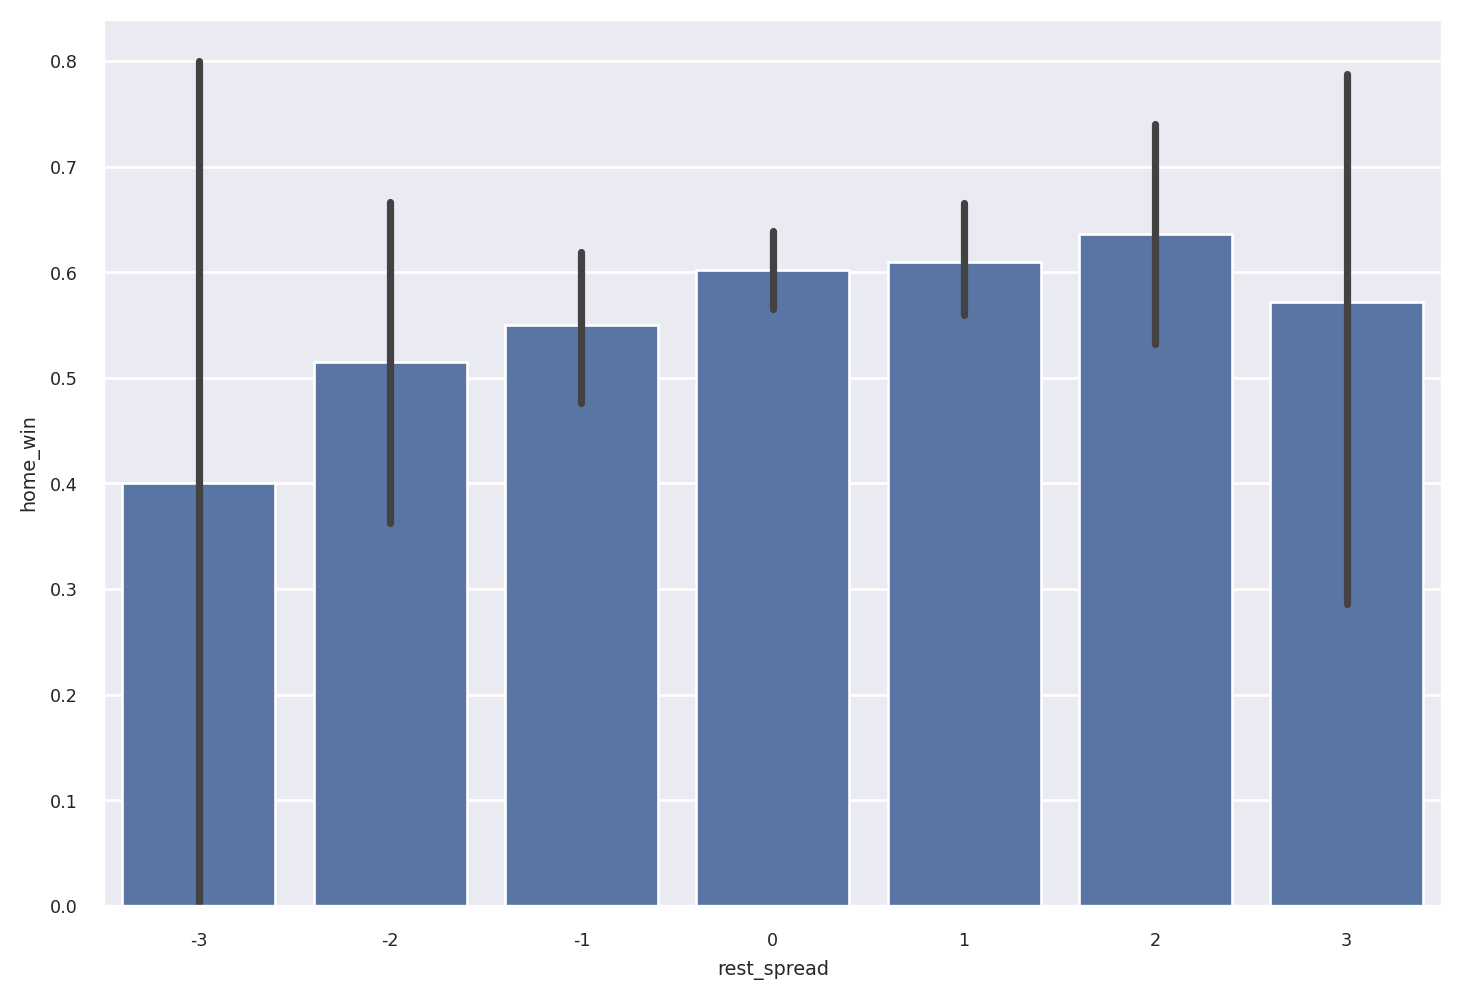
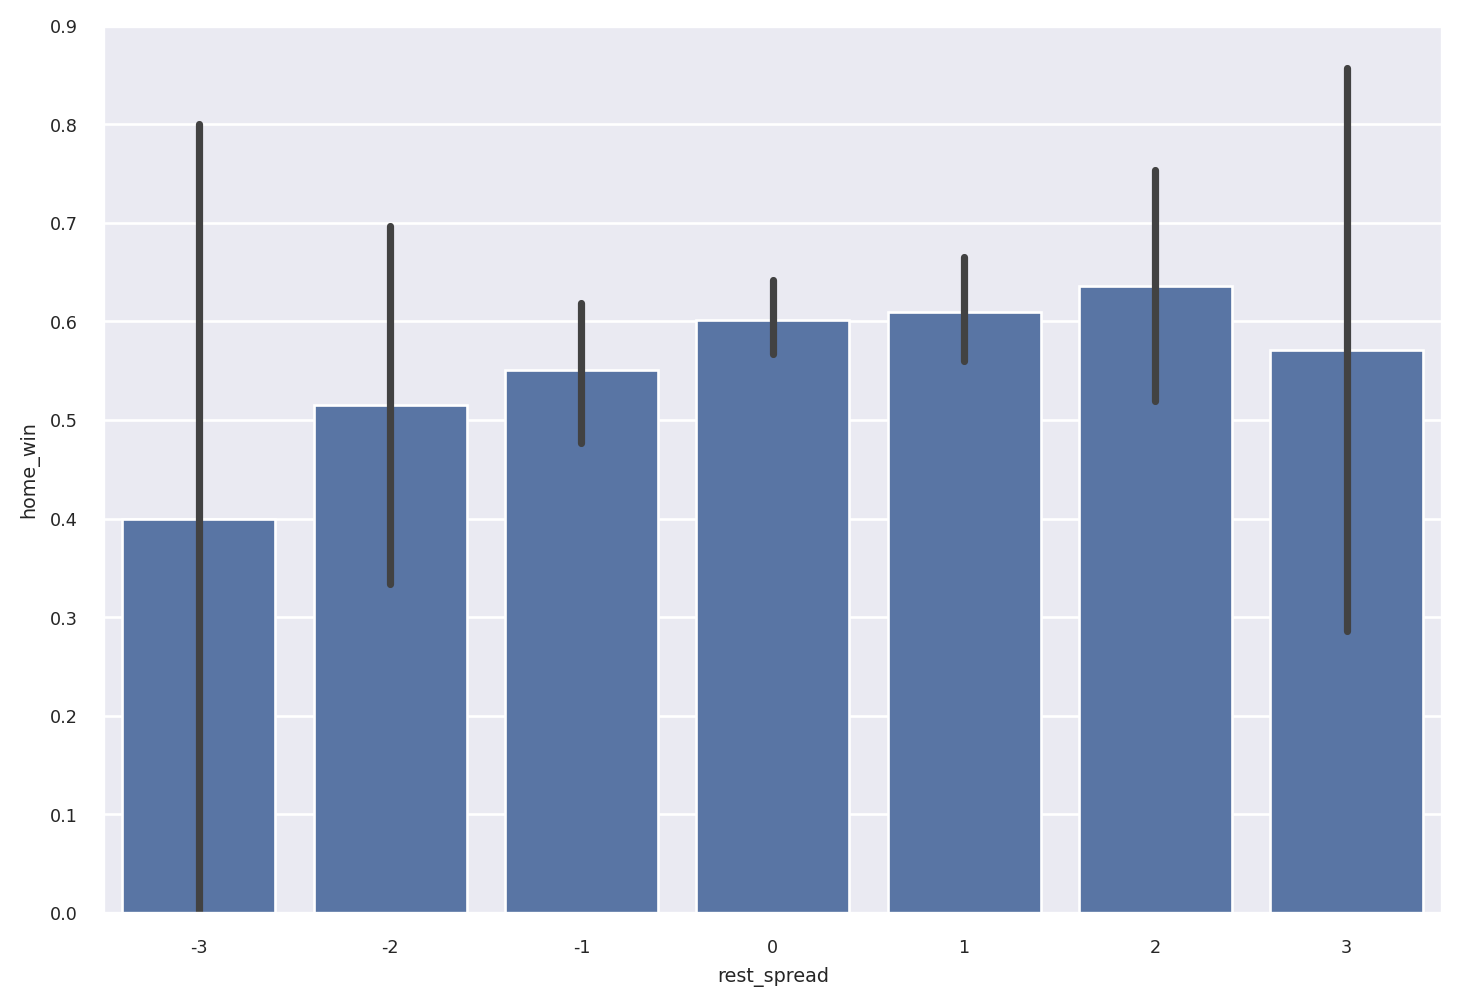
Built site for gh-pages

diff --git a/performance.html b/performance.html
@@ -741,8 +741,8 @@ Tip
 <span id="cb7-21"><a href="#cb7-21" aria-hidden="true" tabindex="-1"></a>    .collect()</span>
 <span id="cb7-22"><a href="#cb7-22" aria-hidden="true" tabindex="-1"></a>)</span></code><button title="Copy to Clipboard" class="code-copy-button"><i class="bi"></i></button></pre></div>
 <div class="cell-output cell-output-stdout">
-<pre><code>CPU times: user 197 ms, sys: 42.5 ms, total: 240 ms
-Wall time: 59.4 ms</code></pre>
+<pre><code>CPU times: user 200 ms, sys: 38.6 ms, total: 238 ms
+Wall time: 66.1 ms</code></pre>
 </div>
 </div>
 </div>
@@ -764,8 +764,8 @@ Wall time: 59.4 ms</code></pre>
 <span id="cb9-14"><a href="#cb9-14" aria-hidden="true" tabindex="-1"></a>    .rename(columns<span class="op">=</span>{<span class="st">"↓OVA"</span>: <span class="st">"OVA"</span>})</span>
 <span id="cb9-15"><a href="#cb9-15" aria-hidden="true" tabindex="-1"></a>)</span></code><button title="Copy to Clipboard" class="code-copy-button"><i class="bi"></i></button></pre></div>
 <div class="cell-output cell-output-stdout">
-<pre><code>CPU times: user 6.55 s, sys: 359 ms, total: 6.9 s
-Wall time: 6.96 s</code></pre>
+<pre><code>CPU times: user 6.5 s, sys: 293 ms, total: 6.79 s
+Wall time: 6.85 s</code></pre>
 </div>
 </div>
 </div>
@@ -2648,7 +2648,7 @@ null
 <span id="cb16-8"><a href="#cb16-8" aria-hidden="true" tabindex="-1"></a>    )</span>
 <span id="cb16-9"><a href="#cb16-9" aria-hidden="true" tabindex="-1"></a>).collect()</span></code><button title="Copy to Clipboard" class="code-copy-button"><i class="bi"></i></button></pre></div>
 <div class="cell-output cell-output-stdout">
-<pre><code>4.3 s ± 116 ms per loop (mean ± std. dev. of 7 runs, 1 loop each)</code></pre>
+<pre><code>4.27 s ± 53.1 ms per loop (mean ± std. dev. of 7 runs, 1 loop each)</code></pre>
 </div>
 </div>
 <p>On my machine the NumPy version tends to be 5-20% faster than the pure Polars version:</p>
@@ -2663,7 +2663,7 @@ null
 <span id="cb18-8"><a href="#cb18-8" aria-hidden="true" tabindex="-1"></a>    )</span>
 <span id="cb18-9"><a href="#cb18-9" aria-hidden="true" tabindex="-1"></a>).collect()</span></code><button title="Copy to Clipboard" class="code-copy-button"><i class="bi"></i></button></pre></div>
 <div class="cell-output cell-output-stdout">
-<pre><code>4.69 s ± 79.4 ms per loop (mean ± std. dev. of 7 runs, 1 loop each)</code></pre>
+<pre><code>4.5 s ± 76.7 ms per loop (mean ± std. dev. of 7 runs, 1 loop each)</code></pre>
 </div>
 </div>
 <p>This may not be a huge performance difference, but it at least means you don’t sacrifice speed when relying on NumPy. There are some <a href="https://pola-rs.github.io/polars-book/user-guide/howcani/interop/numpy.html">gotchas</a> though so watch out for those.</p>
@@ -2678,7 +2678,7 @@ null
 <span id="cb20-7"><a href="#cb20-7" aria-hidden="true" tabindex="-1"></a>    collected[<span class="st">"LONGITUDE_right"</span>].to_numpy()</span>
 <span id="cb20-8"><a href="#cb20-8" aria-hidden="true" tabindex="-1"></a>)</span></code><button title="Copy to Clipboard" class="code-copy-button"><i class="bi"></i></button></pre></div>
 <div class="cell-output cell-output-stdout">
-<pre><code>8.01 s ± 1.22 s per loop (mean ± std. dev. of 7 runs, 1 loop each)</code></pre>
+<pre><code>6.3 s ± 470 ms per loop (mean ± std. dev. of 7 runs, 1 loop each)</code></pre>
 </div>
 </div>
 </section>
@@ -2713,7 +2713,7 @@ null
 <div class="cell" data-execution_count="18">
 <div class="sourceCode cell-code" id="cb23"><pre class="sourceCode python code-with-copy"><code class="sourceCode python"><span id="cb23-1"><a href="#cb23-1" aria-hidden="true" tabindex="-1"></a><span class="op">%</span>timeit rand_df_pl.select(polars_transform())</span></code><button title="Copy to Clipboard" class="code-copy-button"><i class="bi"></i></button></pre></div>
 <div class="cell-output cell-output-stdout">
-<pre><code>5.71 s ± 993 ms per loop (mean ± std. dev. of 7 runs, 1 loop each)</code></pre>
+<pre><code>3.78 s ± 173 ms per loop (mean ± std. dev. of 7 runs, 1 loop each)</code></pre>
 </div>
 </div>
 </div>
@@ -2721,7 +2721,7 @@ null
 <div class="cell" data-execution_count="19">
 <div class="sourceCode cell-code" id="cb25"><pre class="sourceCode python code-with-copy"><code class="sourceCode python"><span id="cb25-1"><a href="#cb25-1" aria-hidden="true" tabindex="-1"></a><span class="op">%</span>timeit pandas_transform(rand_df_pd)</span></code><button title="Copy to Clipboard" class="code-copy-button"><i class="bi"></i></button></pre></div>
 <div class="cell-output cell-output-stdout">
-<pre><code>2.33 s ± 774 ms per loop (mean ± std. dev. of 7 runs, 1 loop each)</code></pre>
+<pre><code>1.91 s ± 210 ms per loop (mean ± std. dev. of 7 runs, 1 loop each)</code></pre>
 </div>
 </div>
 </div>

diff --git a/tidy.html b/tidy.html
@@ -1908,7 +1908,7 @@ false
 <span id="cb11-10"><a href="#cb11-10" aria-hidden="true" tabindex="-1"></a>    height<span class="op">=</span><span class="fl">1.5</span>,</span>
 <span id="cb11-11"><a href="#cb11-11" aria-hidden="true" tabindex="-1"></a>)</span></code><button title="Copy to Clipboard" class="code-copy-button"><i class="bi"></i></button></pre></div>
 <div class="cell-output cell-output-display" data-execution_count="11">
-<pre><code>&lt;seaborn.axisgrid.FacetGrid at 0x7f40e6d19e50&gt;</code></pre>
+<pre><code>&lt;seaborn.axisgrid.FacetGrid at 0x7ff964c7d2d0&gt;</code></pre>
 </div>
 <div class="cell-output cell-output-display">
 <p><img src="tidy_files/figure-html/cell-12-output-2.png" width="729" height="864"></p>
@@ -1982,7 +1982,7 @@ false
 <pre><code>&lt;AxesSubplot: xlabel='rest_spread', ylabel='home_win'&gt;</code></pre>
 </div>
 <div class="cell-output cell-output-display">
-<p><img src="tidy_files/figure-html/cell-15-output-2.png" width="731" height="503"></p>
+<p><img src="tidy_files/figure-html/cell-15-output-2.png" width="731" height="500"></p>
 </div>
 </div>
 </div>
@@ -2000,7 +2000,7 @@ false
 <pre><code>&lt;AxesSubplot: xlabel='rest_spread', ylabel='home_win'&gt;</code></pre>
 </div>
 <div class="cell-output cell-output-display">
-<p><img src="tidy_files/figure-html/cell-16-output-2.png" width="731" height="500"></p>
+<p><img src="tidy_files/figure-html/cell-16-output-2.png" width="731" height="503"></p>
 </div>
 </div>
 </div>
@@ -2681,7 +2681,7 @@ f64
 <span id="cb32-5"><a href="#cb32-5" aria-hidden="true" tabindex="-1"></a>    <span class="st">"win_pct"</span>,</span>
 <span id="cb32-6"><a href="#cb32-6" aria-hidden="true" tabindex="-1"></a>    order<span class="op">=</span>[<span class="st">"away_team"</span>, <span class="st">"home_team"</span>]).<span class="bu">set</span>(ylim<span class="op">=</span>(<span class="dv">0</span>, <span class="dv">1</span>))</span></code><button title="Copy to Clipboard" class="code-copy-button"><i class="bi"></i></button></pre></div>
 <div class="cell-output cell-output-display" data-execution_count="24">
-<pre><code>&lt;seaborn.axisgrid.FacetGrid at 0x7f40e5bba2d0&gt;</code></pre>
+<pre><code>&lt;seaborn.axisgrid.FacetGrid at 0x7ff9575c5810&gt;</code></pre>
 </div>
 <div class="cell-output cell-output-display">
 <p><img src="tidy_files/figure-html/cell-25-output-2.png" width="383" height="483"></p>
@@ -2699,7 +2699,7 @@ f64
 <span id="cb34-9"><a href="#cb34-9" aria-hidden="true" tabindex="-1"></a>    height<span class="op">=</span><span class="fl">1.5</span>,</span>
 <span id="cb34-10"><a href="#cb34-10" aria-hidden="true" tabindex="-1"></a>)</span></code><button title="Copy to Clipboard" class="code-copy-button"><i class="bi"></i></button></pre></div>
 <div class="cell-output cell-output-display" data-execution_count="25">
-<pre><code>&lt;seaborn.axisgrid.FacetGrid at 0x7f40e40db210&gt;</code></pre>
+<pre><code>&lt;seaborn.axisgrid.FacetGrid at 0x7ff954befdd0&gt;</code></pre>
 </div>
 <div class="cell-output cell-output-display">
 <p><img src="tidy_files/figure-html/cell-26-output-2.png" width="729" height="864"></p>
@@ -3438,7 +3438,7 @@ null
   <th>Date:</th>            <td>Thu, 19 Jan 2023</td> <th>  Pseudo R-squ.:     </th>  <td>0.1777</td>  
 </tr>
 <tr>
-  <th>Time:</th>                <td>18:01:23</td>     <th>  Log-Likelihood:    </th> <td> -720.68</td> 
+  <th>Time:</th>                <td>21:39:41</td>     <th>  Log-Likelihood:    </th> <td> -720.68</td> 
 </tr>
 <tr>
   <th>converged:</th>             <td>True</td>       <th>  LL-Null:           </th> <td> -876.38</td> 

diff --git a/indexing.html b/indexing.html
@@ -1973,7 +1973,7 @@ null
 <span id="cb3-3"><a href="#cb3-3" aria-hidden="true" tabindex="-1"></a>df_pd <span class="op">=</span> pd.read_csv(extracted)</span>
 <span id="cb3-4"><a href="#cb3-4" aria-hidden="true" tabindex="-1"></a>df_pd</span></code><button title="Copy to Clipboard" class="code-copy-button"><i class="bi"></i></button></pre></div>
 <div class="cell-output cell-output-stderr">
-<pre><code>/tmp/ipykernel_83718/2805799744.py:3: DtypeWarning: Columns (76,77,84) have mixed types. Specify dtype option on import or set low_memory=False.
+<pre><code>/tmp/ipykernel_5798/2805799744.py:3: DtypeWarning: Columns (76,77,84) have mixed types. Specify dtype option on import or set low_memory=False.
   df_pd = pd.read_csv(extracted)</code></pre>
 </div>
 <div class="cell-output cell-output-display" data-execution_count="3">
@@ -2930,7 +2930,7 @@ i64
 <span id="cb14-2"><a href="#cb14-2" aria-hidden="true" tabindex="-1"></a>f[f[<span class="st">'a'</span>] <span class="op">&lt;=</span> <span class="dv">3</span>][<span class="st">'b'</span>] <span class="op">=</span> f[<span class="st">'b'</span>] <span class="op">//</span> <span class="dv">10</span></span>
 <span id="cb14-3"><a href="#cb14-3" aria-hidden="true" tabindex="-1"></a>f</span></code><button title="Copy to Clipboard" class="code-copy-button"><i class="bi"></i></button></pre></div>
 <div class="cell-output cell-output-stderr">
-<pre><code>/tmp/ipykernel_83718/1317853993.py:2: SettingWithCopyWarning: 
+<pre><code>/tmp/ipykernel_5798/1317853993.py:2: SettingWithCopyWarning: 
 A value is trying to be set on a copy of a slice from a DataFrame.
 Try using .loc[row_indexer,col_indexer] = value instead
 

diff --git a/scaling.html b/scaling.html
@@ -562,8 +562,8 @@ Note
 <span id="cb7-21"><a href="#cb7-21" aria-hidden="true" tabindex="-1"></a>    common_subplan_elimination<span class="op">=</span><span class="va">False</span>, <span class="co"># cannot use CSE with streaming</span></span>
 <span id="cb7-22"><a href="#cb7-22" aria-hidden="true" tabindex="-1"></a>)</span></code><button title="Copy to Clipboard" class="code-copy-button"><i class="bi"></i></button></pre></div>
 <div class="cell-output cell-output-stdout">
-<pre><code>CPU times: user 14.4 s, sys: 2.82 s, total: 17.3 s
-Wall time: 6.3 s</code></pre>
+<pre><code>CPU times: user 13.4 s, sys: 2.38 s, total: 15.8 s
+Wall time: 5.36 s</code></pre>
 </div>
 </div>
 </div>
@@ -588,8 +588,8 @@ Wall time: 6.3 s</code></pre>
 <span id="cb9-17"><a href="#cb9-17" aria-hidden="true" tabindex="-1"></a>    avg_transaction_lazy_dd, total_by_employer_lazy_dd, avg_by_occupation_lazy_dd</span>
 <span id="cb9-18"><a href="#cb9-18" aria-hidden="true" tabindex="-1"></a>)</span></code><button title="Copy to Clipboard" class="code-copy-button"><i class="bi"></i></button></pre></div>
 <div class="cell-output cell-output-stdout">
-<pre><code>CPU times: user 31.7 s, sys: 5.21 s, total: 36.9 s
-Wall time: 24.4 s</code></pre>
+<pre><code>CPU times: user 27.8 s, sys: 4.41 s, total: 32.2 s
+Wall time: 21.6 s</code></pre>
 </div>
 </div>
 </div>
@@ -886,7 +886,7 @@ f64
 </tr>
 <tr>
 <td>
-"PERRY HOMES"
+"OWNER, FOUNDER...
 </td>
 <td>
 500000.0
@@ -894,7 +894,7 @@ f64
 </tr>
 <tr>
 <td>
-"MOORE CAPITAL ...
+"CHIEF EXECUTIV...
 </td>
 <td>
 500000.0
